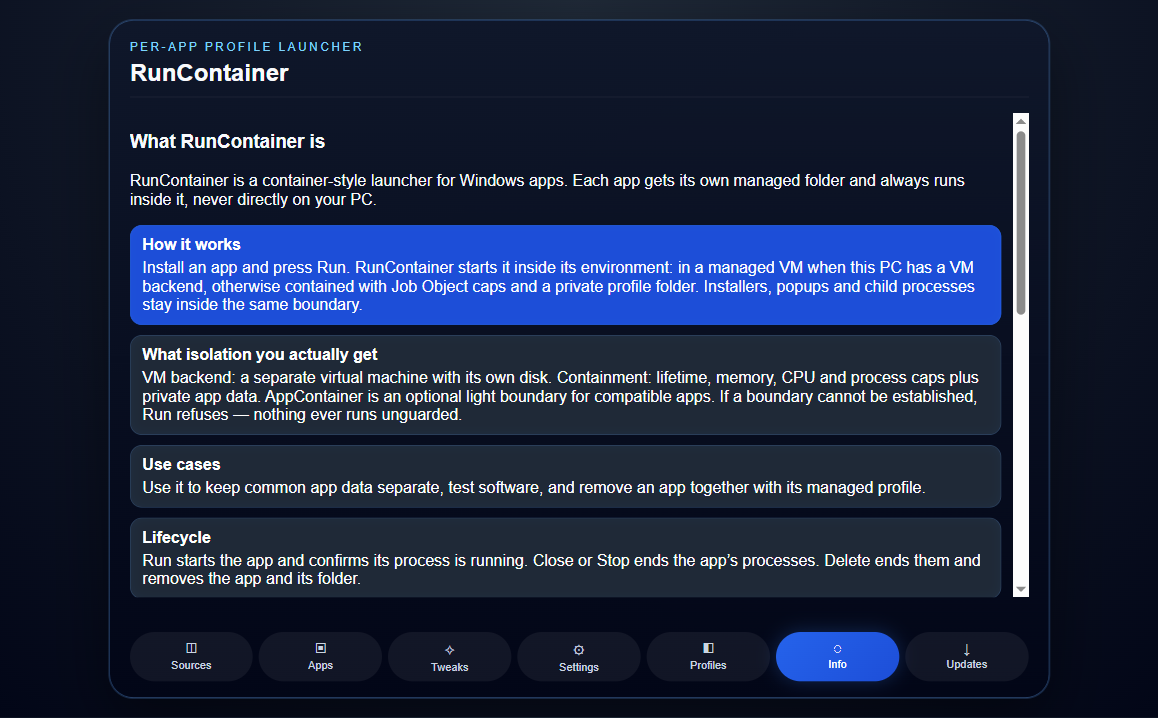
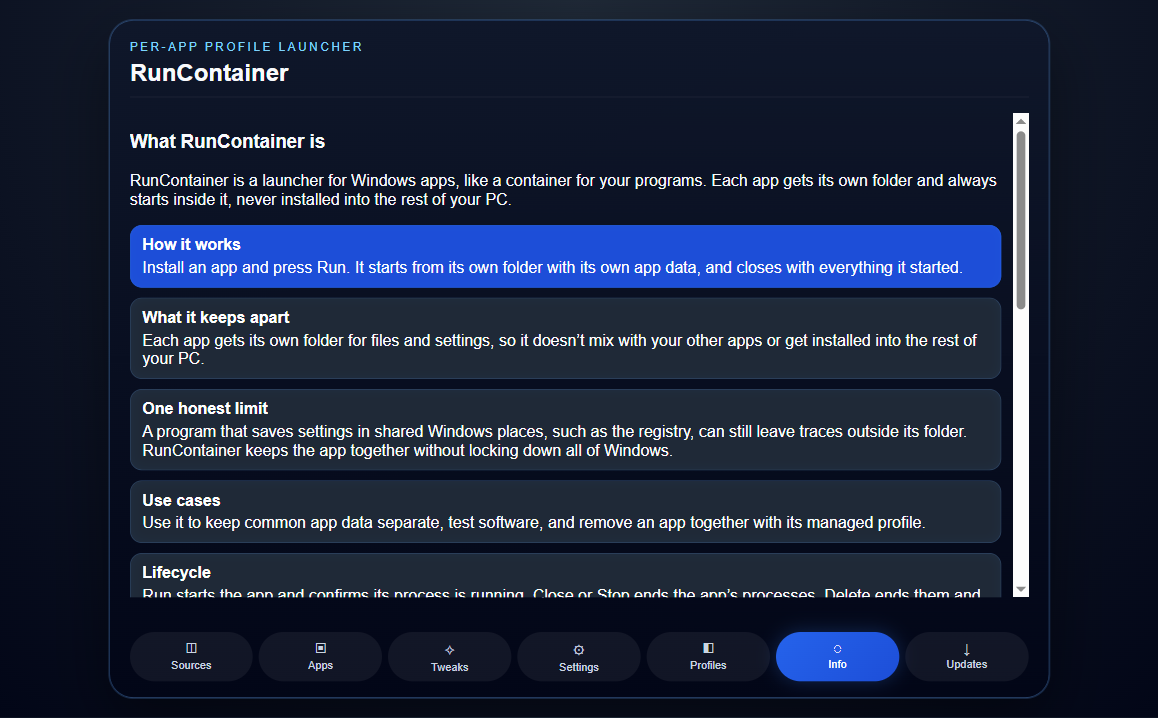
Document the launcher model, honest profiles and 0.6.4 release
The docs still described backend pickers, guest networking and VM setup that
no longer exist. Rewrite those pages around one space per app, say plainly
when a locked profile cannot be enforced, refresh the screenshots, and publish
the 0.6.4 installer details.

🤖 Generated with Codebuff

diff --git a/docs/.vitepress/project.ts b/docs/.vitepress/project.ts
@@ -30,16 +30,29 @@ export const project = {
 
   /** The current Stable installer. Used by the Downloads and Installation pages. */
   latestDownload: {
-    version: '0.6.3',
-    filename: 'RunContainer-Setup-0.6.3.exe',
-    url: 'https://github.com/RunContainer-7/runcontainer/releases/download/v0.6.3/RunContainer-Setup-0.6.3.exe',
-    releaseUrl: 'https://github.com/RunContainer-7/runcontainer/releases/tag/v0.6.3',
[1 lines of base64/hex data omitted]
+    version: '0.6.4',
+    filename: 'RunContainer-Setup-0.6.4.exe',
+    url: 'https://github.com/RunContainer-7/runcontainer/releases/download/v0.6.4/RunContainer-Setup-0.6.4.exe',
+    releaseUrl: 'https://github.com/RunContainer-7/runcontainer/releases/tag/v0.6.4',
[1 lines of base64/hex data omitted]
     sizeMb: 99,
   },
 
   /** Published releases, newest first. */
   releases: [
+    {
+      version: '0.6.4',
+      date: '2026-10-20',
+      channel: 'stable',
+      url: 'https://github.com/RunContainer-7/runcontainer/releases/tag/v0.6.4',
+      notes: [
+        'The app now describes what it does: each application gets its own space and its own files. Settings no longer shows a backend to choose, and virtual-machine setup, prepared images and guest paths are gone from the everyday screens.',
+        'Profiles are honest: locked means no network access, and the Profiles tab says when this PC cannot enforce that for a standard environment.',
+        'Tweaks no longer offers a networking switch that the default environment could not honour, and saving tweaks can no longer put a locked application back online.',
+        'An application pinned to a particular backend can return to automatic from its Manage panel, and automatic now stays automatic instead of turning into a virtual-machine request.',
+        'The installer is not code-signed, so Windows may warn before it runs.',
+      ],
+    },
     {
       version: '0.6.3',
       date: '2026-10-20',

diff --git a/docs/user-guide/settings.md b/docs/user-guide/settings.md
@@ -6,9 +6,9 @@ RunContainer's main window has seven tabs: **Sources**, **Apps**, **Tweaks**, **
 | --- | --- |
 | **Sources** | Adding applications: import from a URL, or install a local `.exe` |
 | **Apps** | Your installed applications, with their actions |
-| **Tweaks** | Per-application options: launch arguments, memory cap, CPU share and networking |
-| **Settings** | Which isolation backend this PC uses, and app storage |
-| **Profiles** | Isolation presets (default, relaxed or locked), assigned per application |
+| **Tweaks** | Per-application options: launch arguments, memory limit and CPU limit |
+| **Settings** | How apps are kept apart, and where their files live |
+| **Profiles** | Access presets (default, relaxed or locked), assigned per application |
 | **Info** | What RunContainer is, how it works, and its current limits |
 | **Updates** | The installed version, a check-for-updates button and the release notes feed |
 
@@ -23,42 +23,44 @@ Labels and options may change between releases. The pages in this guide describe
 Pick an application in **Tweaks** to change its options:
 
 - **Launch arguments**: passed to the app when it starts.
-- **Memory cap**: 512 to 32768 MB.
-- **CPU share**: 1 to 16.
-- **Guest networking**: turn it off to run the app offline.
+- **Memory limit**: 512 to 32768 MB.
+- **CPU limit**: 1 to 16.
 
-Invalid values are rejected and not saved. Memory and CPU caps apply at the next **Run**. Network changes apply to a VM backend after **Reset**; containment can't cut network access.
+Invalid values are rejected and not saved. Limits apply the next time you press **Run**. To take an app offline, use the `locked` profile instead.
 
-![The Tweaks form, with launch arguments, VM memory, VM CPUs, guest networking and Save tweaks](/screenshots/tweaks-panel.png)
+![The Tweaks form, with launch arguments, memory limit, CPU limit and Save tweaks](/screenshots/tweaks-panel.png)
 
 ## Profiles
 
-Each profile is a preset for an application's network and container capabilities:
+Each profile sets how much access an application gets:
 
-- **default**: online VM, with the network adapter attached.
-- **relaxed**: online VM, with wider container capabilities.
-- **locked**: offline VM with the adapters removed, and a container with no capabilities. A running VM needs **Reset** before this takes effect.
+- **default**: normal access.
+- **relaxed**: normal access, plus extra permissions for apps that ask for them.
+- **locked**: no network access.
+
+A `locked` profile can only be enforced when the app runs in a virtual machine or a restricted container. On a standard environment, Windows gives ordinary apps network access — the Profiles tab says so for each app instead of pretending the block is in place.
 
 ![The Profiles tab, listing the default, relaxed and locked presets](/screenshots/profiles-panel.png)
 
 ## Info
 
-The **Info** tab explains how RunContainer works. Its "How it works" and "What isolation you actually get" sections match the limits described in [Isolation](/safety/isolation).
+The **Info** tab explains how RunContainer works, including the one limit worth knowing about: a program that saves settings in shared Windows places can leave traces outside its folder.
 
 Further down the tab, the **Support & documentation** section links to this documentation and to the [Discord server](/support), and both open in your default browser. The same Discord link appears in the beta notice. RunContainer only opens its own project links; any other address is refused.
 
 ![The Info tab. The Support & documentation section with both links sits below the cards shown here.](/screenshots/info-panel.png)
 
-## Isolation in Settings
+## How apps are kept apart
 
-You don't configure isolation by hand. The **Settings** tab shows the backend RunContainer picked for this PC:
+There is nothing to configure. **Settings** says what RunContainer does for this PC:
 
-- **Backend: VM (QEMU)** — apps run inside a managed virtual machine with its own disk.
-- **Backend: containment (RCVM)** — apps run inside a Windows Job Object with lifetime, memory, CPU and process caps, plus a private profile folder per app. This is not a hardware VM and does not cut network access.
+- **Each app runs in its own space** — its own files and processes, memory and CPU limits, and a private folder for its data.
+- **Where app files live** — each app has a folder under RunContainer's data directory. **Duplicate** gives a second copy with separate data, and **Delete** removes that folder.
+- **Logs** — launch, stop and exit events, readable from each app's **Logs** button.
 
-Backend overrides, the Hyper-V readiness check, the guest credential and the option to point at a prepared VM image sit under **Advanced**, so the everyday screens are short. RunContainer never downloads or bundles Windows.
+If a prepared virtual-machine image is already available on the PC, RunContainer uses it automatically for a stronger boundary. Nothing is downloaded, and no Windows licence is included.
 
-![The Settings tab, showing the picked backend, app storage and a collapsed Advanced section](/screenshots/tab-settings.png)
+![The Settings tab, showing one space per app and where app files live](/screenshots/tab-settings.png)
 
 ## Updates
 
@@ -71,7 +73,7 @@ The **Updates** tab shows the installed version and the release notes for every 
 There are two kinds of settings to keep apart:
 
 - **An application's own settings** (its preferences, sign-ins and recent files) are changed inside the application. They belong to that app's own RunContainer folder, so changing them doesn't affect other apps or your PC.
-- **RunContainer's settings** control RunContainer itself and how it isolates apps.
+- **RunContainer's settings** decide how much access an app gets and how much memory and CPU it may use.
 
 ## Related
 

diff --git a/docs/reference/limitations.md b/docs/reference/limitations.md
@@ -13,10 +13,12 @@ These are the known limits on what it does and doesn't do.
 - **Not every Windows application works.** Applications that install drivers or system services, use anti-cheat or copy protection, or need deep system access are likely to have problems. → [Unsupported applications](/troubleshooting/unsupported-apps)
 - **Behaviour can vary between application versions.** An application that works today may behave differently after it updates itself.
 
-## Isolation backend
+## How apps are kept apart
 
-- **The VM backend needs a prepared image.** RunContainer never downloads or bundles Windows. When a prepared QEMU image is available (Settings → Advanced → Use prepared image), apps run inside a virtual machine; otherwise they run contained with Job Object caps and a private profile folder. The Settings tab always says which one is in use.
-- **Containment is not a virtual machine.** It separates app data and limits resources, but it shares the Windows kernel and does not cut off network access.
+- **It is a launcher, not a virtual machine.** Apps run in their own space on the same Windows as everything else. That keeps their files and data together and limits their memory and CPU, but it is not a full security boundary.
+- **A virtual machine is used only when one is already available.** RunContainer never downloads or bundles Windows. When a prepared image exists on the PC, apps use it automatically for a stronger boundary; the Settings tab says whether that is happening.
+- **Shared Windows places are outside the app's folder.** A program that writes to the registry or a system-wide install directory can still leave traces there.
+- **`locked` cannot always block the network.** It works when the app runs in a virtual machine or a restricted container; on a standard environment, Windows gives ordinary apps network access, and the app says so instead of implying otherwise.
 
 ## Security
 

diff --git a/docs/user-guide/reset-remove.md b/docs/user-guide/reset-remove.md
@@ -16,12 +16,12 @@ RunContainer has two separate actions. Don't confuse them.
 | **The environment** | Kept | Deleted |
 | **Installed applications** | Kept | Removed |
 | **Files saved inside it** | Kept | Removed |
-| **Good for** | Recovering a stuck environment, or applying changed CPU, memory or network settings | Environments you no longer need |
+| **Good for** | Recovering a stuck environment, or applying changed CPU and memory limits | Environments you no longer need |
 
-Reset keeps the disk, installed applications and data. Use it when an environment is stuck or after you change its settings. For AppContainer-mode applications, Reset stops the processes and removes the container profile.
+Reset stops everything the app started and returns its environment to a clean state, while keeping its files and data. Use it when an app is stuck or after you change its memory or CPU limits.
 
 ::: warning Delete can take a while
-Deleting a VM environment shuts the environment down first, and can wait up to two minutes for it to power off. If deletion reports a leftover lock, close antivirus, backup or indexing tools that may be using the files, then run Delete again.
+Delete stops the app first, which can take a moment with a large app. If it reports that a file is still in use, close antivirus, backup or indexing tools that may be holding it, then run Delete again.
 :::
 
 ## Before you reset or remove

diff --git a/docs/user-guide/applications.md b/docs/user-guide/applications.md
@@ -37,7 +37,7 @@ Choose **Import from URL** from the same **+** menu, then enter the address of t
 
 ## Running the installer
 
-The app's installer runs inside the app's isolated environment, not on your host — in a managed VM when this PC has a VM backend, otherwise under containment with its own profile. Installer prompts to watch for are listed below.
+The app's installer runs inside the app's own environment, not loose on your desktop. It gets the same space and limits as the app itself. Installer prompts to watch for are listed below.
 
 If the installer finishes but the environment needs a reboot, RunContainer tells you. Use **Reset** on the app, then **Run** it.
 
@@ -54,7 +54,7 @@ If the installer finishes but the environment needs a reboot, RunContainer tells
 
 Each app in **My Apps** has these actions:
 
-- **Manage**: open the app's settings, including launch arguments, memory, CPUs and networking. See [Settings](/user-guide/settings).
+- **Manage**: see where the app lives, its log, how its window appears, and its access profile. See [Settings](/user-guide/settings).
 - **Run** and **Close**: start the app, or stop it. See [Running & stopping](/user-guide/running).
 - **Reset**: restart the app's environment, keeping its data. See [Reset or remove](/user-guide/reset-remove).
 - **Duplicate**: create a separate copy with separate data.

diff --git a/docs/safety/isolation.md b/docs/safety/isolation.md
@@ -19,12 +19,12 @@ Isolation in RunContainer is intended to:
 
 ## What the settings say
 
-The **Settings** tab shows the backend RunContainer picked for this PC:
+The **Settings** tab describes what RunContainer does on this PC:
 
-- When a VM backend is available, apps run inside a managed virtual machine with their own disk.
-- Otherwise apps run contained: a Windows Job Object enforces lifetime, memory, CPU and process caps, and each app gets a private profile folder. This is not a hardware VM.
+- Every app runs in its own space, with its own files, its own data folder, and limits on memory and CPU.
+- If a prepared virtual-machine image is already available, RunContainer uses it automatically for a stronger boundary.
 
-Either way, nothing runs unguarded: if a boundary can't be established, RunContainer refuses to launch the app.
+Either way, nothing runs unguarded: if the environment can't be established, RunContainer refuses to launch the app.
 
 ## What it doesn't mean
 

diff --git a/docs/downloads.md b/docs/downloads.md
@@ -30,7 +30,7 @@ Any file presented as a RunContainer installer that isn't linked from this page 
 Before you run the installer, compare its checksum with the SHA-256 value above. In PowerShell, in the folder with the file:
 
 ```powershell
-Get-FileHash .\RunContainer-Setup-0.6.3.exe -Algorithm SHA256
+Get-FileHash .\RunContainer-Setup-0.6.4.exe -Algorithm SHA256
 ```
 
 If the hash doesn't match, delete the file and download it again from this page.

diff --git a/docs/reference/glossary.md b/docs/reference/glossary.md
@@ -34,7 +34,7 @@ Delete an environment along with the applications and files inside it. → [Rese
 
 ### Reset
 
-Return an environment to a clean state, removing its applications and files but keeping the environment. → [Reset & remove](/user-guide/reset-remove)
+Stop everything an app started and return its environment to a clean state, keeping the app's saved files and data. → [Reset & remove](/user-guide/reset-remove)
 
 ### Running
 
